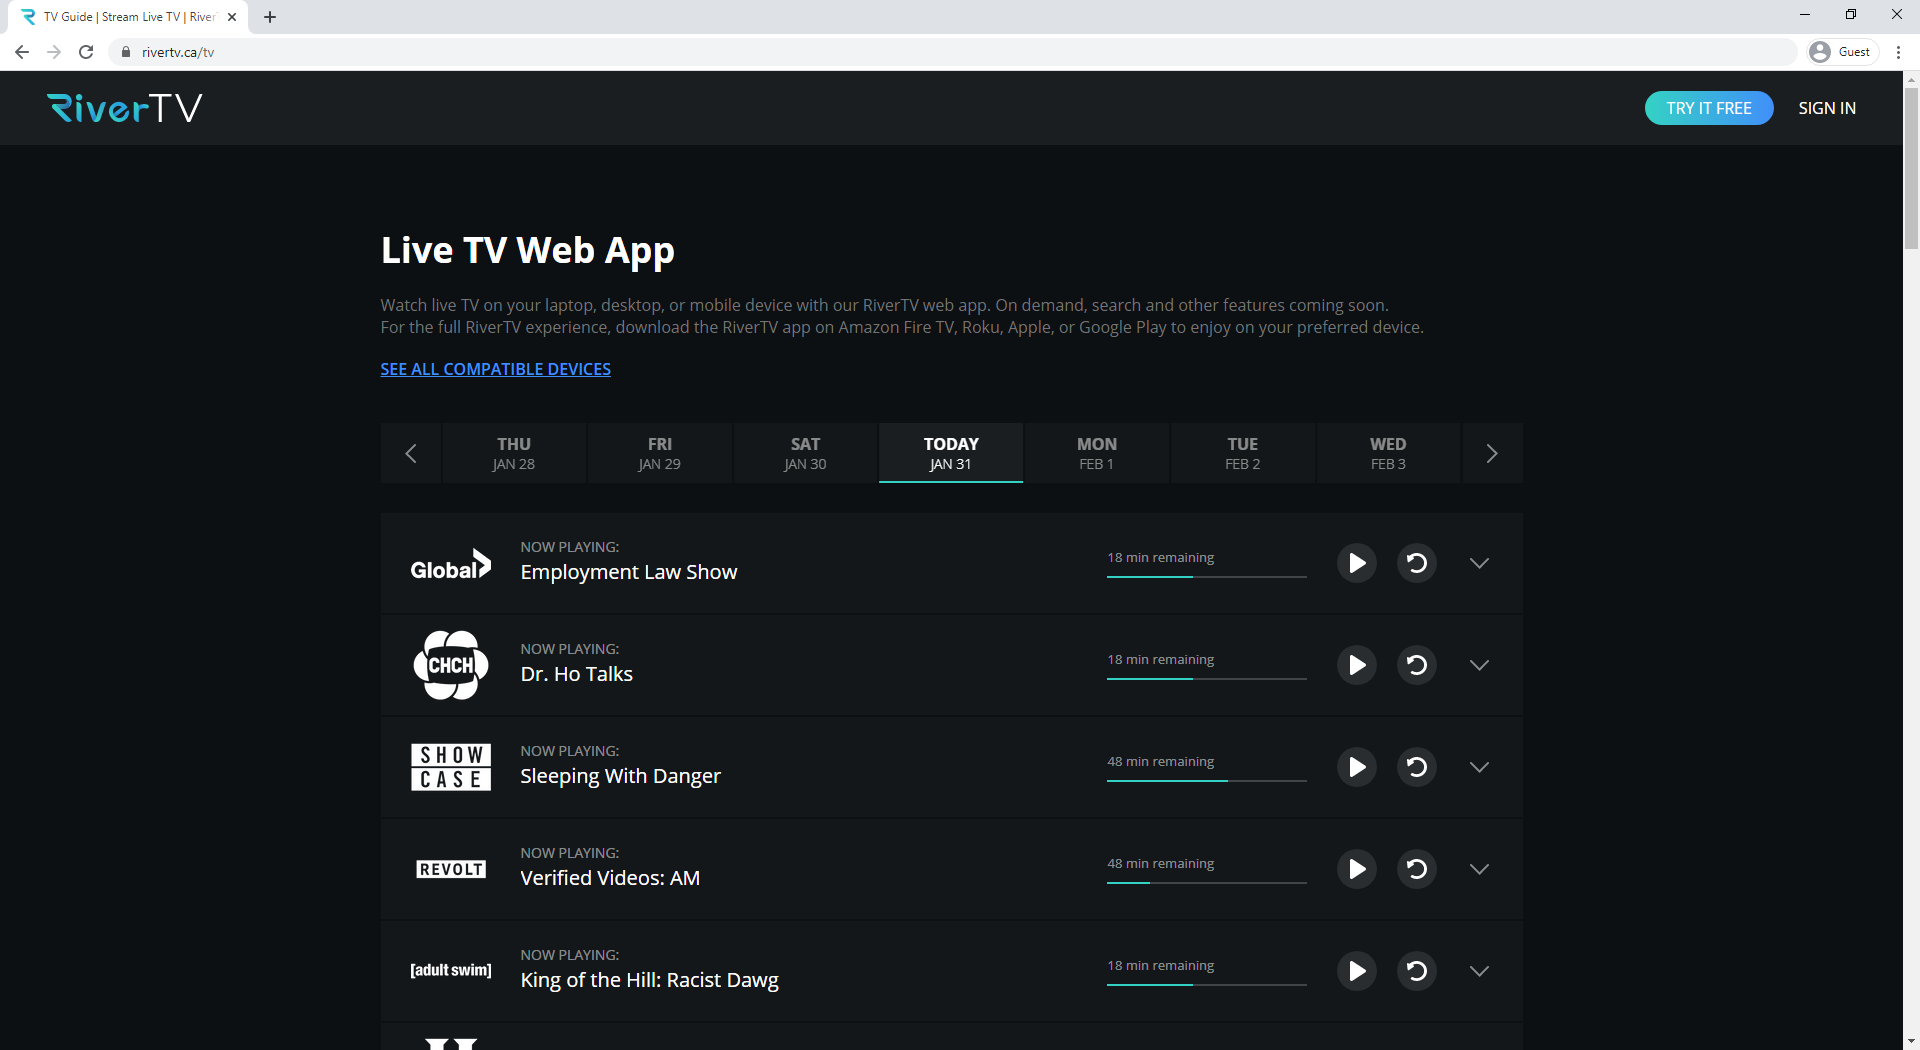
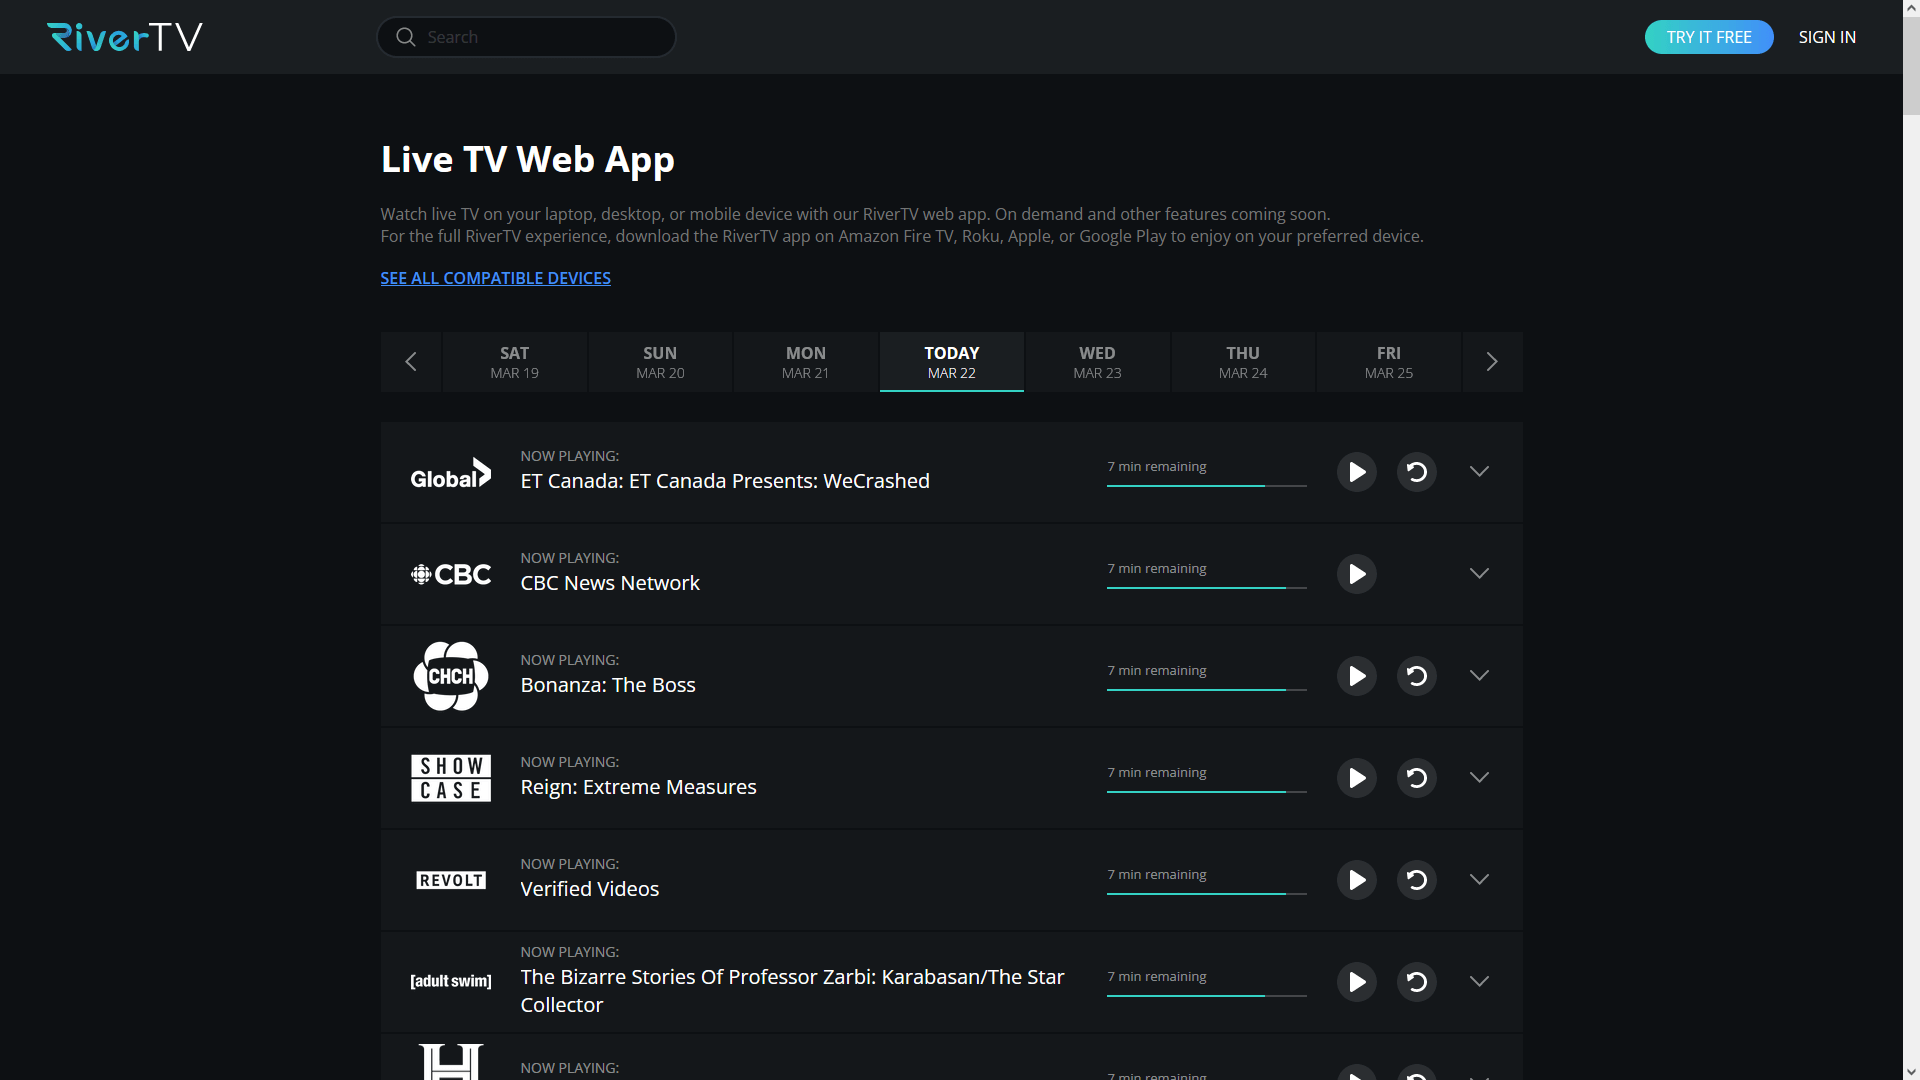
updated images

diff --git a/src/app/components/page-projects/page-projects.component.html b/src/app/components/page-projects/page-projects.component.html
@@ -13,7 +13,7 @@
                     RiverTV offers streaming of live channels and on-demand content.
                     The website is online shop and TV web app where RiverTV package and addons can be acquired, managed and watched.
                 </p>
-                <img class="text-page__img" src="/assets/images/rivertv/tv-guide.png">
+                <img class="text-page__img" src="/assets/images/rivertv/tv-guide.png?v=1">
                 <p class="text-page__p">
                     I developed frontend for checkout and TV guide.
                 </p>
@@ -52,7 +52,7 @@
                     Apart from internet it also offers services such as cable-free TV, home phone and home security.
                     The website is online shop where such services can acquired and managed.
                 </p>
-                <img class="text-page__img" src="/assets/images/vmedia/home.png">
+                <img class="text-page__img" src="/assets/images/vmedia/checkout.png?v=1">
                 <p class="text-page__p">
                     The site has very complex checkout and frontend overall.
                     I refactored frontend, implemented new features, fixed bugs, upgraded a lot of legacy code.
@@ -88,6 +88,7 @@
                     Content management sytem of "Scarlett & Monarch" was used for each and every website project of company.
                     Each customer had their own requirements. CMS evolved with each new requirement.
                 </p>
+                <img class="text-page__img" src="/assets/images/cms/login.png?v=1">
                 <p class="text-page__p">
                     I developed backend and frontend, updated legacy code, developed
                     new modules such as <i>catalog product editor</i>, <i>feedback</i>, <i>orders management</i>.
